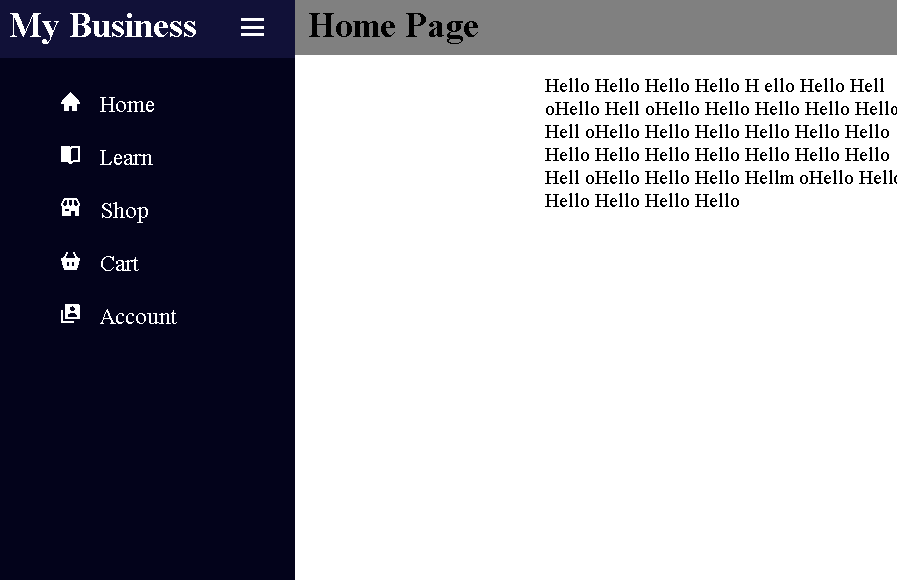
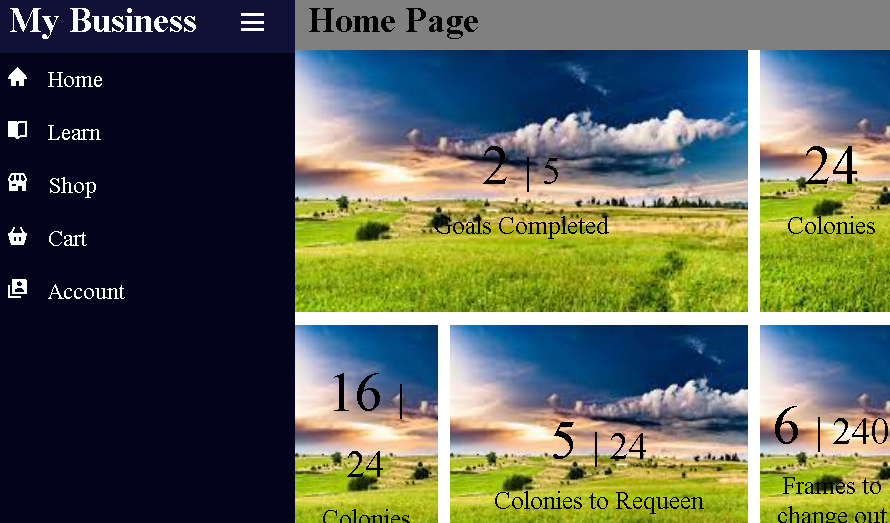
added thumbnail and fixed background images

diff --git a/styles/index.css b/styles/index.css
@@ -56,7 +56,6 @@ html {
     display: flex;
     flex-direction: column;
     border: 2px solid lightgrey;
-    /*box-shadow: 6px 3px 5px #e2e0d5;*/
 }
 .card .content {
     flex: 1 1 auto;
@@ -69,7 +68,7 @@ html {
 .content {
     background-color: #E3DFC8;
     color: #00416D;
-    height: 100px;
+    height: 150px;
 }
 footer {
     background-color: #00416D;

diff --git a/styles/sidebar.css b/styles/sidebar.css
@@ -138,11 +138,11 @@ p {
 }
 
 .bg1 {
-    background: url('images/field.jfif');
+    background: url('../images/field.jfif');
     color: black;
 }
 .bg2 {
-    background: url('images/flower.jfif');
+    background: url('../images/flower.jfif');
     color: black
 }
 
